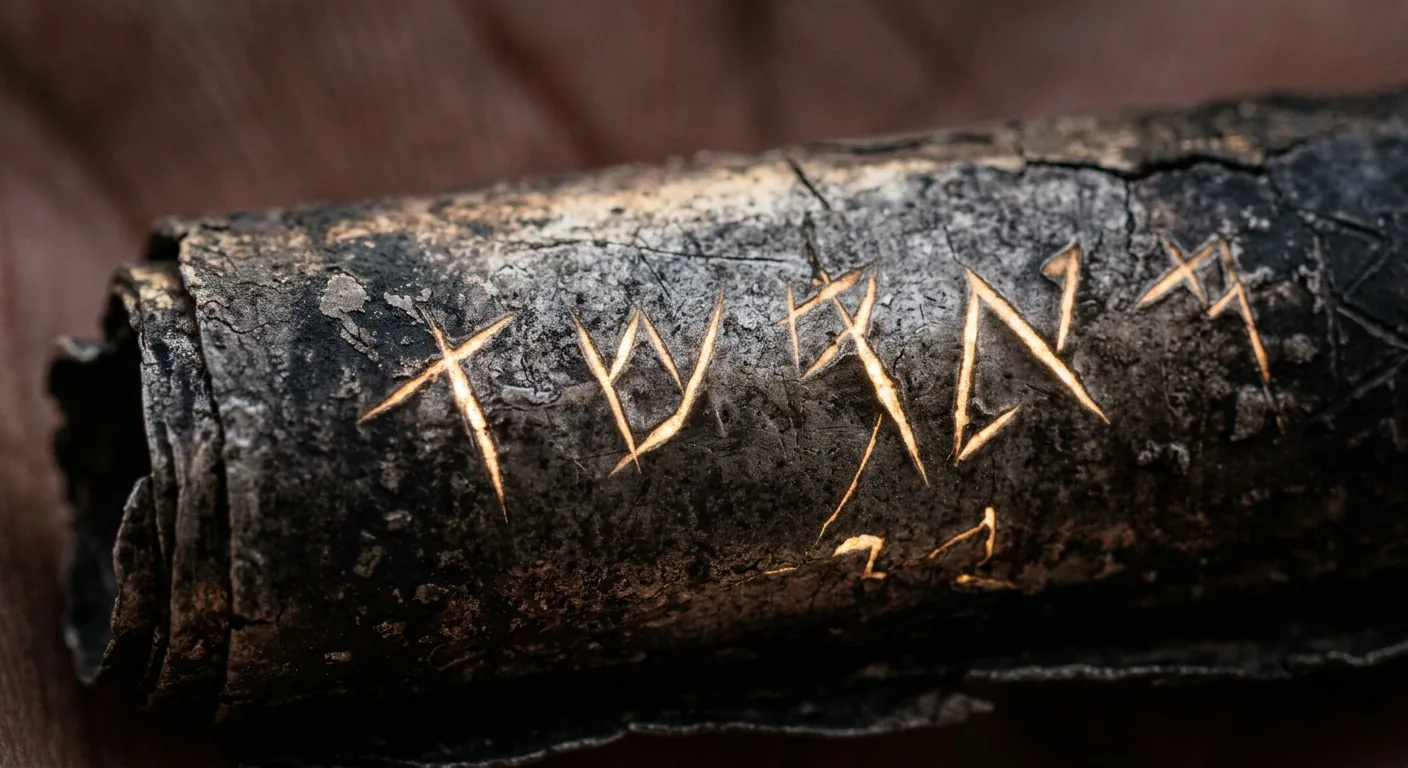
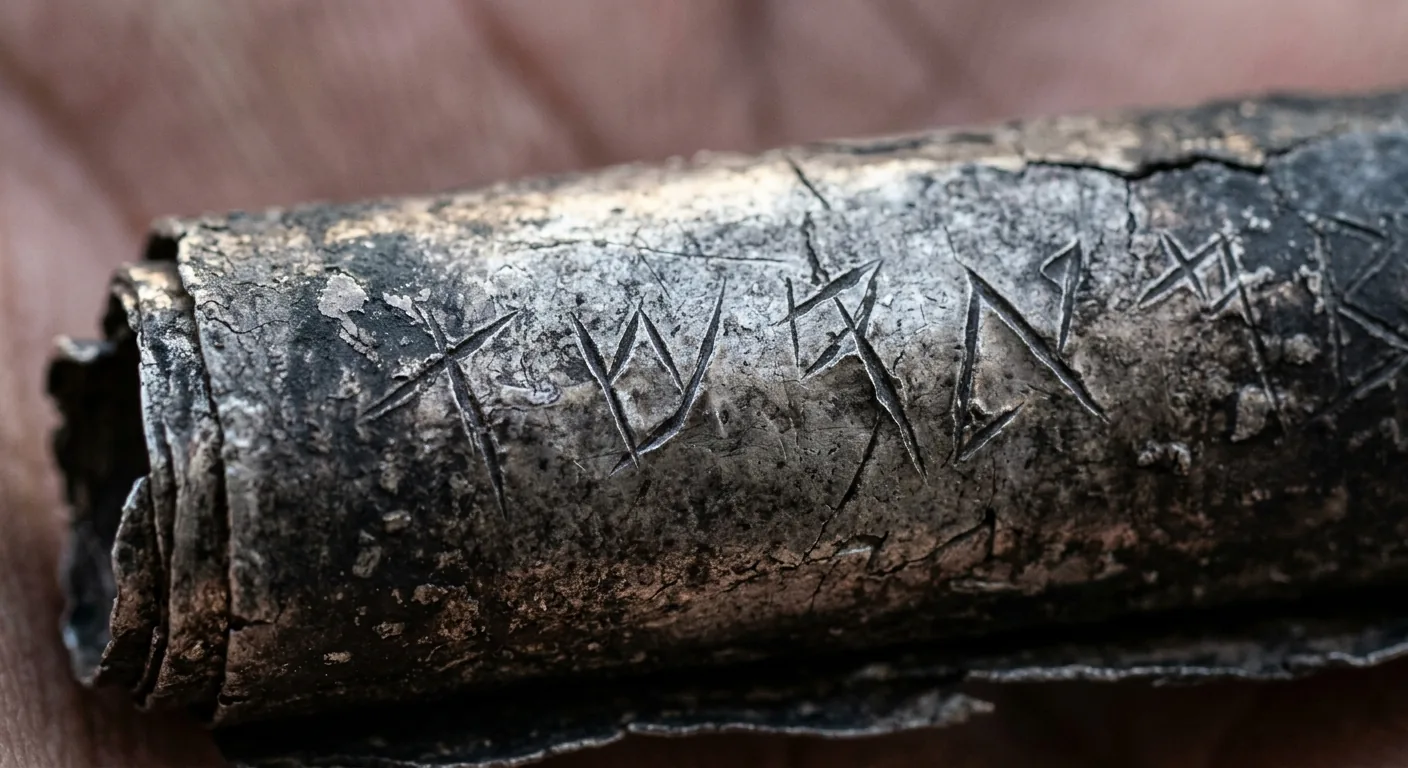
Round six: four plates replaced, cherubim in the veil, cache v27
The author supplied four new frames and all four landed.

ch08-veil was the worst frame on the site: the curtain hung in a Gothic
cathedral and had no cherubim woven into it, which is the thing chapter VIII
spends four paragraphs on. Both faults are gone. The cherubim are in the weave,
repeated across the surface, and the tear runs down through one and splits it.

ch09-charcoal had open flames on what the text calls a charcoal fire, and the
flamelessness is the point the chapter turns on. It is now completely flameless
and the shore is black basalt rather than grey pebble. Cropped from 1584x672 to
the house 1408x768 with the fire biased so it survives the phone 4:3 crop.

ch09-emmaus had a wooden stool in a room where Luke's verb is "reclined". The
stool is gone and the reed mat and bolster arrived in its place.

ch01-scroll fixes both style flags left open in round five: the cuts no longer
glow gold from inside, and the object reads as tarnished silver rather than
charred wood.

Three of the four had been forbidden by name for two rounds and delivered
anyway. All three were fixed once the forbidden thing was also stated as a
positive description of what belongs there instead. That is the sixth
confirmation of PROMPTS.md section 6.

Tier 1 and Tier 2 are now empty. ch07-gate, which has never been generated, is
the only picture work left on the site.

Originals and superseded plates are MD5-verified on the archive drive at
[…]

diff --git a/content/images.js b/content/images.js
@@ -29,19 +29,20 @@ window.PANIM_IMAGES = {
     caption: "Chamber 25.",
     ref: "Ketef Hinnom, Jerusalem · 1979"
   },
-  // ✅ REPLACED 2026-08-28 (round five) — the falsifiable error is gone. The previous frame
-  // had MODERN SQUARE HEBREW, legible as such, under a caption calling it the oldest words
-  // we have. This one is angular incised strokes with no square blocks, no crowns and no
-  // vowel points, which is the right family of letterform.
-  // ⚠ TWO THINGS TO JUDGE, both style rather than fact — flagged for the author:
-  //   1. The incisions GLOW warm gold from inside, which can read as fantasy rather than
-  //      as a low raking light catching a cut edge.
-  //   2. The object reads as charred wood or bark rather than as tarnished SILVER foil,
-  //      which is what KH1 actually is.
-  // Still an unambiguous improvement on what it replaces. See art/PROMPTS.md `ch01-scroll`.
+  // ✅ REPLACED AGAIN 2026-08-28 (round six) — BOTH round-five flags are now resolved.
+  // Round five fixed the falsifiable error (modern square Hebrew under a caption calling it
+  // the oldest words we have) but left two style faults: the cuts GLOWED warm gold from
+  // inside, and the object read as charred wood rather than as silver. This frame fixes
+  // both. The surface is now blackened, oxidised METAL with bright silver where the roll is
+  // abraded, and the letters are lit by a low RAKING light catching the cut edges — no glow
+  // from within. Letterforms stay angular and incised: no square blocks, no crowns, no
+  // vowel points. This is what round five asked for as option B.
+  // Remaining nit, not worth a reroll: a few glyphs read as generic angular marks rather
+  // than strictly palaeo-Hebrew. Not falsifiable at plate size.
+  // Superseded frame archived at site-art-2026-08-28/superseded-2026-08-28-round-six/.
   "ch01-scroll": {
     src: "art/ch01-scroll.webp",
-    alt: "Extreme close-up of a small blackened rolled scroll held in a palm, angular letters scratched into its surface and catching the light along their cut edges.",
+    alt: "Extreme close-up of a small rolled strip of tarnished silver resting on an open palm, blackened with age and bright where it is worn, angular letters incised into the metal and catching a low raking light along their cut edges.",
     caption: "The oldest words we have.",
     ref: "Numbers 6:24–26 · c. 600 BC"
   },
@@ -158,45 +159,62 @@ window.PANIM_IMAGES = {
     caption: "Therefore I have set My face like flint.",
     ref: "Isaiah 50:7"
   },
-  // 🔴 PRIORITY 4 — graded for the FIRST time 2026-08-28. Every handoff until now listed
-  // this slot as "needed — never generated." It was generated, it is live, and nobody had
-  // looked at it. Two faults, both serious:
-  //   1. The curtain hangs in a GOTHIC CATHEDRAL — pointed arches, ribbed vaults,
-  //      clustered piers. Thirteen centuries late and the wrong religion's architecture.
-  //   2. There are NO CHERUBIM woven into the cloth. Chapter VIII spends four paragraphs
-  //      on those cherubim — Eden's guards, embroidered on the barrier for a thousand
-  //      years. Without them the plate cannot say what the chapter says.
-  // The curtain itself is good: colossal, blue and scarlet, torn from the top, threads
-  // snapping in the light. Replace against art/PROMPTS.md `ch08-veil`.
+  // ✅ REPLACED 2026-08-28 (round six) — this was THE WORST FRAME ON THE SITE and both
+  // faults are fixed. The Gothic cathedral is gone: the cloth now hangs in plain massive
+  // dressed limestone with flat lintels, no pointed arches, no ribs, no piers, no marble.
+  // And THE CHERUBIM ARE IN THE CLOTH — large winged frontal figures woven into the weave
+  // and repeated across the whole surface, with the tear running down THROUGH them and
+  // splitting one in half. That is the thing chapter VIII spends four paragraphs on, and
+  // the plate can now say what the chapter says. Blue, purple and scarlet per Exodus 26:31,
+  // torn from the top downward, threads snapping and lighting up as they part.
+  // Two things noted and accepted, neither falsifiable:
+  //   1. The cherubim faces read Byzantine-angelic — soft, frontal, haloed — rather than as
+  //      the composite ANE creature. They are unmistakably woven figures, which is the load
+  //      the plate has to carry.
+  //   2. The stone jambs step inward toward the top, which can suggest a corbelled arch.
+  //      No vaulting, no ribs, no piers — it does not read as a cathedral.
+  // Superseded frame archived at site-art-2026-08-28/superseded-2026-08-28-round-six/.
   "ch08-veil": {
     src: "art/ch08-veil.webp",
-    alt: "A colossal woven temple curtain in blue, purple and scarlet, split from the top downward, hard white light bursting through the tear and individual threads snapping and lighting up as they part.",
+    alt: "A colossal woven temple curtain in blue, purple and scarlet with large winged cherubim worked into the weave and repeated across it, split from the top downward through one of the figures, hard white light bursting through the tear and individual threads snapping and lighting up as they part.",
     caption: "Torn in two from top to bottom — from the other side.",
     ref: "parochet · Matthew 27:51"
   },
-  // 🟠 Graded 2026-08-28 (also previously listed as "never generated" — it was).
-  // The frame has OPEN ORANGE FLAMES standing above the fire. Anthrakia is a CHARCOAL
-  // fire and the flamelessness is the whole point the chapter turns on — the same smell
-  // as the courtyard where Peter denied him, the word appearing in only those two places
-  // in the New Testament. The prompt forbade flames by name and got them anyway; that is
-  // one of the six data points behind art/PROMPTS.md §6. The beach is also grey pebble
-  // where the Galilee shore is black basalt.
+  // ✅ REPLACED 2026-08-28 (round six) — the one fault that mattered is gone. The previous
+  // frame had OPEN ORANGE FLAMES standing above the fire; anthrakia is a CHARCOAL fire and
+  // the flamelessness is the point the chapter turns on. This frame is completely flameless:
+  // a low flat bed of burnt lumps, matte black and ash-white outside, glowing deep red only
+  // DOWN INSIDE the cracks, with nothing rising above the stones. The shore is also now
+  // BLACK BASALT rather than grey pebble, with dark wet sand between the stones, and the
+  // low blue-grey smoke drifts sideways and backlights into a sheet across the frame.
+  // Fish and one flat loaf lie directly on the coals. Cold flat Galilee behind.
+  // Rewriting the never-list as a positive description ("glowing cracks only, nothing
+  // rising") is what finally worked — another data point for art/PROMPTS.md §6.
+  // Not delivered, not worth a reroll: the bare footprints leading to the fire and stopping.
+  // NOTE ON SHAPE: the author's original is 1584x672 (2.36:1), wider than the house 1408x768.
+  // It was cropped to 1232x672 with the fire biased to ~0.58 of the width so it survives the
+  // 4:3 centre crop the plate takes on a phone, then resized to 1408x768. Original on the drive.
   "ch09-charcoal": {
     src: "art/ch09-charcoal.webp",
-    alt: "A small charcoal fire on a pebble shore at first light, fish and flat bread laid on the coals, low smoke drifting sideways and backlit into a thin sheet, cold grey sea behind.",
+    alt: "A small flameless charcoal fire on a shore of black basalt stones at first light, two fish and a flat round loaf laid on the coals, deep red glowing only in the cracks between them, low smoke drifting sideways and backlit into a thin sheet, cold grey sea and hills behind.",
     caption: "The word burns in only two places: a courtyard, and this beach.",
     ref: "anthrakia · John 21:9"
   },
-  // 🟠 Graded 2026-08-28 (also previously listed as "never generated" — it was).
-  // There is a WOODEN STOOL at frame right and the table stands at dining height. A chair
-  // in this room is exactly what the prompt was rewritten to prevent: first-century
-  // Judeans did not sit at a meal, Luke's verb is *reclined*, and the brief asks for a
-  // reed floor mat and a bolster with the hollow still in it. Forbidden by name, delivered
-  // anyway — see art/PROMPTS.md §6. Everything else in the frame is right: the dim stone
-  // room, the small window, the torn loaf, the clay cup, the lamp and the smoke line.
+  // ✅ REPLACED 2026-08-28 (round six) — the stool is gone and the floor seating arrived.
+  // The previous frame had a WOODEN STOOL at frame right and a table at dining height, which
+  // is a nineteenth-century dining room in a first-century village house: Luke's verb is
+  // *reclined*. This frame has no stool, no chair, no seat of any kind. In their place, at
+  // floor level, are the woven reed mat and the long undyed bolster with the hollow of
+  // someone still in it — the only seating in the room, which is the whole point.
+  // Everything that was already right is kept: dim dry-stone room, one small unglazed
+  // window at first light, the torn loaf, the clay cup, the lamp and the thin smoke line
+  // from a wick just gone out.
+  // Noted, accepted: the table is low but not the "barely a foot off the floor" the brief
+  // asks for. It reads as a low table, not a dining table, so it is not worth a reroll.
+  // Superseded frame archived at site-art-2026-08-28/superseded-2026-08-28-round-six/.
   "ch09-emmaus": {
     src: "art/ch09-emmaus.webp",
-    alt: "A rough table in a dim stone room lit by one small window at first light: a round loaf torn in half, a clay cup, and a thin line of smoke still rising from a wick just gone out. No one is there.",
+    alt: "A low table in a dim stone room lit by one small window at first light: a round loaf torn in half, a clay cup, and a thin line of smoke still rising from a wick just gone out. On the floor beside it a reed mat and a long bolster cushion with the hollow of someone still in it. No one is there.",
     caption: "Then their eyes were opened and they recognized Him.",
     ref: "Luke 24:31 · Emmaus"
   },

diff --git a/index.html b/index.html
@@ -45,12 +45,12 @@
 <link rel="preload" href="fonts/l04.woff2" as="font" type="font/woff2" crossorigin>
 <link rel="preload" href="fonts/g02.woff2" as="font" type="font/woff2" crossorigin>
 <link rel="preload" href="fonts/h00.woff2" as="font" type="font/woff2" crossorigin>
-<link rel="stylesheet" href="fonts/fonts.css?v=26">
-<link rel="stylesheet" href="css/site.css?v=26">
-<link rel="stylesheet" href="css/components.css?v=26">
-<link rel="stylesheet" href="css/player.css?v=26">
-<link rel="stylesheet" href="css/room.css?v=26">
-<link rel="stylesheet" href="css/polish.css?v=26">
+<link rel="stylesheet" href="fonts/fonts.css?v=27">
+<link rel="stylesheet" href="css/site.css?v=27">
+<link rel="stylesheet" href="css/components.css?v=27">
+<link rel="stylesheet" href="css/player.css?v=27">
+<link rel="stylesheet" href="css/room.css?v=27">
+<link rel="stylesheet" href="css/polish.css?v=27">
 </head>
 <body>
 <a class="skip-link" href="#main">Skip to content</a>
@@ -302,18 +302,18 @@
 
 <audio id="narration-audio" preload="none"></audio>
 
-<script src="content/chapters.js?v=26"></script>
-<script src="content/images.js?v=26"></script>
-<script src="content/audio-manifest.js?v=26"></script>
-<script src="content/marks.js?v=26"></script>
-<script src="content/thread.js?v=26"></script>
-<script src="content/lexicon.js?v=26"></script>
-<script src="js/render.js?v=26"></script>
-<script src="js/ui.js?v=26"></script>
-<script src="js/motion.js?v=26"></script>
-<script src="js/sync.js?v=26"></script>
-<script src="js/player.js?v=26"></script>
-<script src="js/room.js?v=26"></script>
+<script src="content/chapters.js?v=27"></script>
+<script src="content/images.js?v=27"></script>
+<script src="content/audio-manifest.js?v=27"></script>
+<script src="content/marks.js?v=27"></script>
+<script src="content/thread.js?v=27"></script>
+<script src="content/lexicon.js?v=27"></script>
+<script src="js/render.js?v=27"></script>
+<script src="js/ui.js?v=27"></script>
+<script src="js/motion.js?v=27"></script>
+<script src="js/sync.js?v=27"></script>
+<script src="js/player.js?v=27"></script>
+<script src="js/room.js?v=27"></script>
 <script>
 if ('serviceWorker' in navigator && location.protocol === 'https:') {
   addEventListener('load', function () { navigator.serviceWorker.register('sw.js').catch(function(){}); });

diff --git a/sw.js b/sw.js
@@ -8,7 +8,7 @@
 // returning visitor is served the previous build out of the old cache
 // indefinitely — v3 was the Direction B rebuild, v4 the text rebuilt from the
 // manuscript, v5 the four new plates and the section dividers.
-var SHELL = 'panim-shell-v26';
+var SHELL = 'panim-shell-v27';
 var AUDIO = 'panim-audio-v1';
 
 // index.html requests every stylesheet and script as `...?v=ASSET_V`. Keep this
@@ -22,7 +22,7 @@ var AUDIO = 'panim-audio-v1';
 //      accessibility.html — both are standalone pages with their own copy, and
 //      neither is reached by the index.html sweep. 404.html was left on v24 for
 //      a whole release because of exactly this.
-var ASSET_V = '26';
+var ASSET_V = '27';
 var VERSIONED = /\.(css|js)$/;
 var PRECACHE = [
   './', 'index.html', 'accessibility.html', 'favicon.svg', 'og-card-face.jpg', 'manifest.webmanifest',

diff --git a/accessibility.html b/accessibility.html
@@ -7,7 +7,7 @@
 <meta name="description" content="What this site aims for on accessibility, what has been measured, what has not been done yet, and how to report a problem.">
 <link rel="canonical" href="https://jonathandiaso.github.io/Panim/accessibility.html">
 <link rel="icon" type="image/svg+xml" href="/Panim/favicon.svg">
-<link rel="stylesheet" href="/Panim/fonts/fonts.css?v=26">
+<link rel="stylesheet" href="/Panim/fonts/fonts.css?v=27">
 <style>
   /* Standalone page, same pattern as 404.html: the tokens are copied rather than
      imported so this page renders correctly even if the main stylesheet fails.

diff --git a/404.html b/404.html
@@ -6,7 +6,7 @@
 <title>Not here — PANIM</title>
 <meta name="robots" content="noindex">
 <link rel="icon" type="image/svg+xml" href="/Panim/favicon.svg">
-<link rel="stylesheet" href="/Panim/fonts/fonts.css?v=26">
+<link rel="stylesheet" href="/Panim/fonts/fonts.css?v=27">
 <style>
   html { -webkit-text-size-adjust: 100%; }
   body {

diff --git a/art/PROMPTS.md b/art/PROMPTS.md
@@ -32,6 +32,15 @@ only on what is actually in the frames.
 > `site-art-2026-08-28/superseded-2026-08-28-round-five/`; the new originals are alongside
 > them in `incoming-round-five-2026-08-28/`.
 
+> ✅ **Round six, 2026-08-28 — four more plates replaced, and Tier 1 and Tier 2 are now
+> empty.** The author delivered four frames: `ch08-veil`, `ch09-charcoal`, `ch09-emmaus` and
+> a second `ch01-scroll`. All four landed. **`ch08-veil` — the worst frame on the site — is
+> fixed, cherubim and all**, both Tier 2 faults are gone, and the two style flags left open
+> on `ch01-scroll` are resolved. **The only picture work left is `ch07-gate`, which has never
+> been generated, and `ch02-trees`, which the author has now accepted as it stands.**
+> Superseded frames at `site-art-2026-08-28/superseded-2026-08-28-round-six/`, originals in
+> `incoming-round-six-2026-08-28/`.
+
 ### ✅ Fixed in round five
 
 | slot | was | now |
@@ -40,22 +49,31 @@ only on what is actually in the frames.
 | ~~`ch06-shine`~~ | green forest, bokeh orbs, a hood | **open desert, clear air, and the flat masveh panel** tucked at the temples with hair and shoulders uncovered. All three named faults fixed at once. |
 | ~~`ch03-mountain`~~ | a volcanic eruption, no boundary | **fire standing over intact rock**, and **the piled-stone boundary line runs the full width** with the crowd behind it. The chapter's hinge is finally in the picture. |
 | ~~`ch01-tomb`~~ | an adult's bare wrist; no 1979 | **the frayed 1970s cuff and a dust-white young hand** — and it adds the **bone repository** the old frame lacked entirely. |
-| ~~`ch01-scroll`~~ | modern square Hebrew under "the oldest words we have" | **angular incised strokes**, no square blocks, no crowns, no vowel points. ⚠ Two style flags: the incisions **glow gold** (can read as fantasy), and the object reads as **charred wood rather than tarnished silver**. |
+| ~~`ch01-scroll`~~ | modern square Hebrew under "the oldest words we have" | **angular incised strokes**, no square blocks, no crowns, no vowel points. *(Its two style flags were then fixed in round six — see below.)* |
 | ~~`ch10-veil-lift`~~ | **the slot rendered nothing** | **filled.** Her hand raised, the sheer cloth moving **across** her face — Gen 24:65, the way round the book argues. He is far off across the field; their shadows reach toward each other. True 3:2 at 1536×1024. |
+
+### ✅ Fixed in round six
+
+| slot | was | now |
+| --- | --- | --- |
+| ~~`ch08-veil`~~ | a **Gothic cathedral**, and **no cherubim in the cloth** | **the cherubim are in the weave** — large winged frontal figures repeated across the whole surface, with the tear running down **through** one and splitting it. Stone behind is plain massive limestone with flat lintels. Blue, purple and scarlet per Exodus 26:31, torn from the top down. *Noted and accepted: the faces read Byzantine-angelic rather than the composite ANE creature; the jambs step inward toward the top.* |
+| ~~`ch09-charcoal`~~ | **open orange flames**, grey pebble beach | **completely flameless** — matte black and ash-white lumps glowing deep red only down inside the cracks, nothing rising above the stones — on **black basalt** with dark wet sand. Smoke drifts sideways into a backlit sheet. *Footprints not delivered; not worth a reroll.* |
+| ~~`ch09-emmaus`~~ | a **wooden stool**, table at dining height | **no stool, no chair, no seat of any kind.** In their place, at floor level, the **reed mat and the long bolster with the hollow still in it** — the only seating in the room, which is the point. *Table is low but not the briefed foot off the floor.* |
+| ~~`ch01-scroll`~~ | cuts **glowing gold** from inside; read as **charred wood** | **tarnished silver** — blackened oxidised metal, bright where worn — lit by a low **raking** light across the cut edges. No glow from within. This was round five's option B. |
+
+**Three of these four were fixed on faults a never-list had failed to prevent** — the flames
+and the stool were both forbidden by name for two rounds and both arrived anyway. Rewriting
+them as positive descriptions fixed both on the first try. §6 is now carrying six wins.
 
 ### Still open — Tier 1
 
 | # | slot | what is actually in the frame |
 | --- | --- | --- |
-| 1 | `ch08-veil` | 🔴 **Now the worst frame on the site.** The curtain itself is good: colossal, blue and scarlet, torn from the top, threads snapping in the light. But it hangs in a **Gothic cathedral** — pointed arches, ribbed vaults, clustered piers — and **there are no cherubim in the cloth.** Chapter VIII spends four paragraphs on those cherubim. Without them the plate cannot say what the chapter says. **No new frame was supplied for this one.** |
-| 2 | `ch02-trees` | 🟠 **Improved, not finished.** Fixed: they are **clothed in stitched leaves**, and the **cut stone steps are gone**. Still wrong: the light is **warm golden hour** on the coldest page in the book; **god rays** remain; her hair is still **long, wavy and light auburn**. New: **they are no longer hiding** — the caption says they hid among the trees and this frame has them in the open. |
+| 1 | `ch02-trees` | 🟠 **Author has accepted this frame as it stands** (round five, §2): *"we can assume God is in the light and they are hiding."* That reading takes the warm light as the presence they are hiding **from**, which resolves the light and the hiding together. Left on the list only as a record of the three unfixed faults — warm golden hour on the coldest page, god rays, and Northern European hair — in case it is ever rerolled for another reason. **Do not reroll without asking.** |
 
 ### Still open — Tier 2
 
-| # | slot | what is actually in the frame |
-| --- | --- | --- |
-| 3 | `ch09-charcoal` | 🟠 **Open orange flames.** *Anthrakia* is charcoal — matte black lumps glowing red in the cracks, no flame at all — and the flamelessness is the point the chapter turns on. The beach is also **grey pebble**, where the Galilee shore is black basalt. |
-| 4 | `ch09-emmaus` | 🟠 There is a **wooden stool** at frame right, and the table stands at dining height. A chair in this room is precisely what the prompt was rewritten to prevent: Luke's verb is *reclined*. Otherwise the room, the torn loaf, the lamp and the smoke line are all right. |
+**Empty.** Both Tier 2 faults were fixed in round six.
 
 ### Tier 3 — good plates; reroll only if it is cheap
 
@@ -76,6 +94,7 @@ anything in Tier 2.
 - **`ch07-gate`** — **chapter VII has no plate at all.** The only empty slot left.
 
 `ch10-veil-lift` was the other one and it was **filled in round five** — see the table above.
+After round six, **`ch07-gate` is the only picture work left on the whole site.**
 
 ---
 
@@ -360,7 +379,7 @@ bone pile. Remove everything else.
 
 ---
 
-### `ch01-scroll` — the oldest words · ✅ **replaced round five — script fixed, two style flags**
+### `ch01-scroll` — the oldest words · ✅ **replaced round six — script AND both style flags fixed**
 
 The delivered frame has **modern square Hebrew** scratched into the metal, clearly enough to
 read as such, under the caption *"the oldest words we have."* Square Hebrew is Aramaic script
@@ -395,7 +414,7 @@ and everything else is dull grey metal. Keep the strokes thin, angular and irreg
 
 ---
 
-### `ch02-trees` — the hiding · 🟠 **replaced round five — improved, NOT finished**
+### `ch02-trees` — the hiding · ✅ **replaced round five — author accepted as it stands, round six**
 
 The delivered frame is golden and sunbeamed on **the coldest page in the book**; it has **cut
 stone steps** in a garden that predates masonry; both figures are **nude** rather than in the
@@ -618,7 +637,7 @@ Keep the light strictly behind.
 
 ---
 
-### `ch07-gate` — the glory backs out · ⬛ **STILL never generated — the only empty slot left**
+### `ch07-gate` — the glory backs out · ⬛ **STILL never generated — THE ONLY PICTURE WORK LEFT**
 
 > 🔁 **A different picture from the old prompt, on purpose.** The old one asked for a bare
 > undecorated stone hall and then said to *"strip all decoration from the stone."* Solomon's
@@ -696,7 +715,7 @@ rather than gold. Flat storm-grey behind, no detail at all.
 
 ---
 
-### `ch08-veil` — torn · 🔴 **NOW THE WORST FRAME ON THE SITE — no new frame supplied**
+### `ch08-veil` — torn · ✅ **replaced round six — cathedral gone, CHERUBIM PRESENT**
 
 > ⚠ **Not previously graded; the notes said it had never been generated.** It has, it is live,
 > and it has two faults. The curtain hangs in a **Gothic cathedral** — pointed arches, ribbed
@@ -742,7 +761,7 @@ readable in the surviving cloth at the bottom. Keep the stonework behind flat an
 
 ---
 
-### `ch09-emmaus` — the table after · 🟠 **Tier 2 — there is a stool in the room**
+### `ch09-emmaus` — the table after · ✅ **replaced round six — the stool is gone, the bolster arrived**
 
 The delivered room, loaf, cup, lamp and smoke line are all right. But there is **a wooden stool
 at frame right**, and the table stands at dining height. First-century Judeans did not sit on
@@ -778,7 +797,7 @@ line — it should be the sharpest detail in the frame.
 
 ---
 
-### `ch09-charcoal` — the second fire · 🟠 **Tier 2 — it has flames, and flames are the point**
+### `ch09-charcoal` — the second fire · ✅ **replaced round six — completely flameless, black basalt**
 
 The delivered frame has **open orange flames** standing above the fire. *Anthrakia* is a
 **charcoal** fire, and the chapter turns on the smell of charcoal specifically — the same smell
@@ -985,3 +1004,27 @@ Open the file. Do not grade from the note about the file — every stale claim c
 | 2026-08-28 | Added §6 — say the positive, because negation is weak. The never-list stays as the grading checklist; every constraint that matters must also appear as a positive statement in the prompt body. |
 | 2026-08-27 | Third pass. Added §1, §2 and §5. Fixed a **reversed** `ch10-veil-lift` — Gen 24:65 has her covering, not uncovering. Rewrote `ch07-gate` from a bare hall to the east gate with its carved cherubim, per Ezek 11:23 / 43:2 and 1 Kings 6:29. Put the woven cherubim into `ch08-veil`. Removed "rough linen" from Eden, chairs from Emmaus, flames from a charcoal fire, square Hebrew from a 7th-century BC amulet, and a galleon from Jonah. |
 | 2026-08-27 | Second pass. Replaced the single golden-hour opener with the per-chapter light arc. |
+
+---
+
+### 2026-08-28 — round six, four plates
+
+Four frames delivered and all four wired. **Tier 1 and Tier 2 are now empty; `ch07-gate` is
+the only picture work left on the site.**
+
+| slot | fault it carried | fixed by |
+|---|---|---|
+| `ch08-veil` | Gothic cathedral; **no cherubim in the cloth** | describing the cherubim positively and at length — "woven into the weave itself and repeated across the whole surface… they must be clearly visible and clearly figures" — and describing the stone positively as flat lintels and horizontal courses, rather than forbidding arches |
+| `ch09-charcoal` | **open flames** on a charcoal fire; grey pebble beach | "glowing deep red only DOWN INSIDE the cracks… nothing at all standing up above the stones" as a positive statement, plus "BLACK BASALT" named in the body rather than "no grey pebbles" in the never-list |
+| `ch09-emmaus` | a **wooden stool**; table at dining height | naming the replacement rather than the prohibition — "a woven reed mat and a long bolster cushion… this is where the person was RECLINING on the floor, and it is the only seating in the room" |
+| `ch01-scroll` | cuts **glowing gold**; read as charred wood not silver | "tarnished silver" and "low raking light catching the cut edge" stated positively |
+
+**Three of the four had been forbidden by name for two rounds and delivered anyway.** All three
+were fixed on the first try once the forbidden thing was also stated as a positive description
+of what should be there instead. That is now **six** independent confirmations of §6, and it is
+the single most reliable finding this project has about how these models read a prompt.
+
+**Shape note.** `ch09-charcoal` arrived at 1584×672 (2.36:1), wider than the house 1408×768.
+It was cropped to 1232×672 with the fire biased to ~0.58 of the width — so it survives the 4:3
+centre crop a plate takes below the 900px breakpoint — then resized to 1408×768. The uncropped
+original is on the drive.

diff --git a/art/archive/WHERE-THE-SOURCES-WENT.md b/art/archive/WHERE-THE-SOURCES-WENT.md
@@ -63,3 +63,23 @@ Hebrew **פ** replaced) and the previous share card (the tomb, which the chapter
 replaced) are at `site-art-2026-08-28/site-assets-superseded-2026-08-28/`. Neither is kept
 in the repo: both are still in git history, and the old share card is additionally still
 live at `og-card.jpg` on purpose, so links already unfurled with it do not break.
+
+---
+
+## Round six, 2026-08-28 — four more
+
+| folder on the drive | what it holds |
+|---|---|
+| `site-art-2026-08-28/incoming-round-six-2026-08-28/` | the four originals as supplied — `ch8Veil.jpeg`, `ch9Charcoal.jpeg`, `Ch9Emmaus.jpeg`, `scroll.jpeg`, 3.1 MB of JPEG |
+| `site-art-2026-08-28/superseded-2026-08-28-round-six/` | the four plates they replaced |
+
+All eight files MD5-verified in both directions before anything was removed from the working
+copy. `art/` is **1.9 MB**.
+
+**Four plates replaced:** `ch01-scroll` (second replacement — the round-five style flags),
+`ch08-veil` (which was the worst frame on the site), `ch09-charcoal` and `ch09-emmaus`.
+
+⚠ **The drive is mounted at `/Volumes/MAS`, not `/Volumes/T7`.** Earlier notes on this project
+call it "the T7" and give T7 paths; the volume label is **MAS**. Same disk, and
+`/Volumes/MAS/Panim-archive/` is the real path. Nothing is lost — the notes are just wrong
+about the name.
